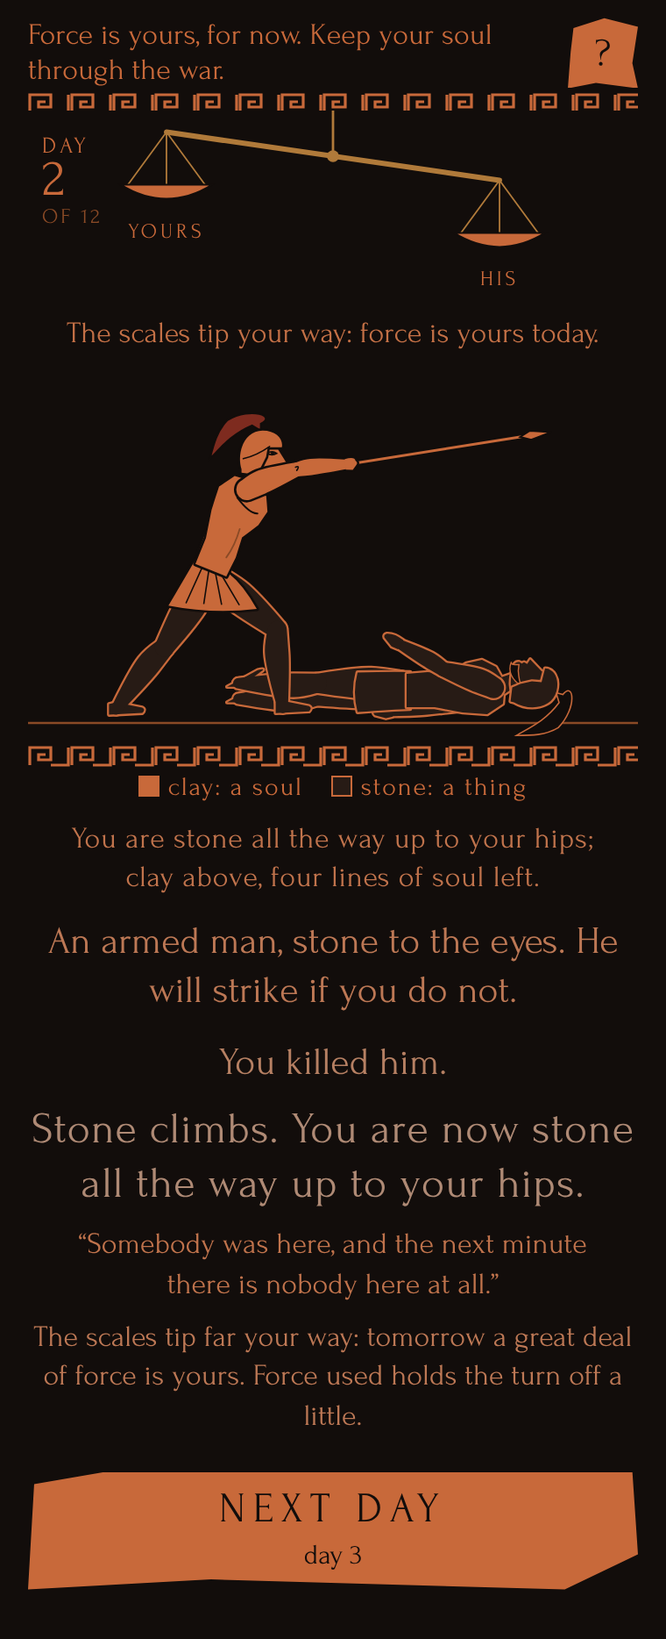
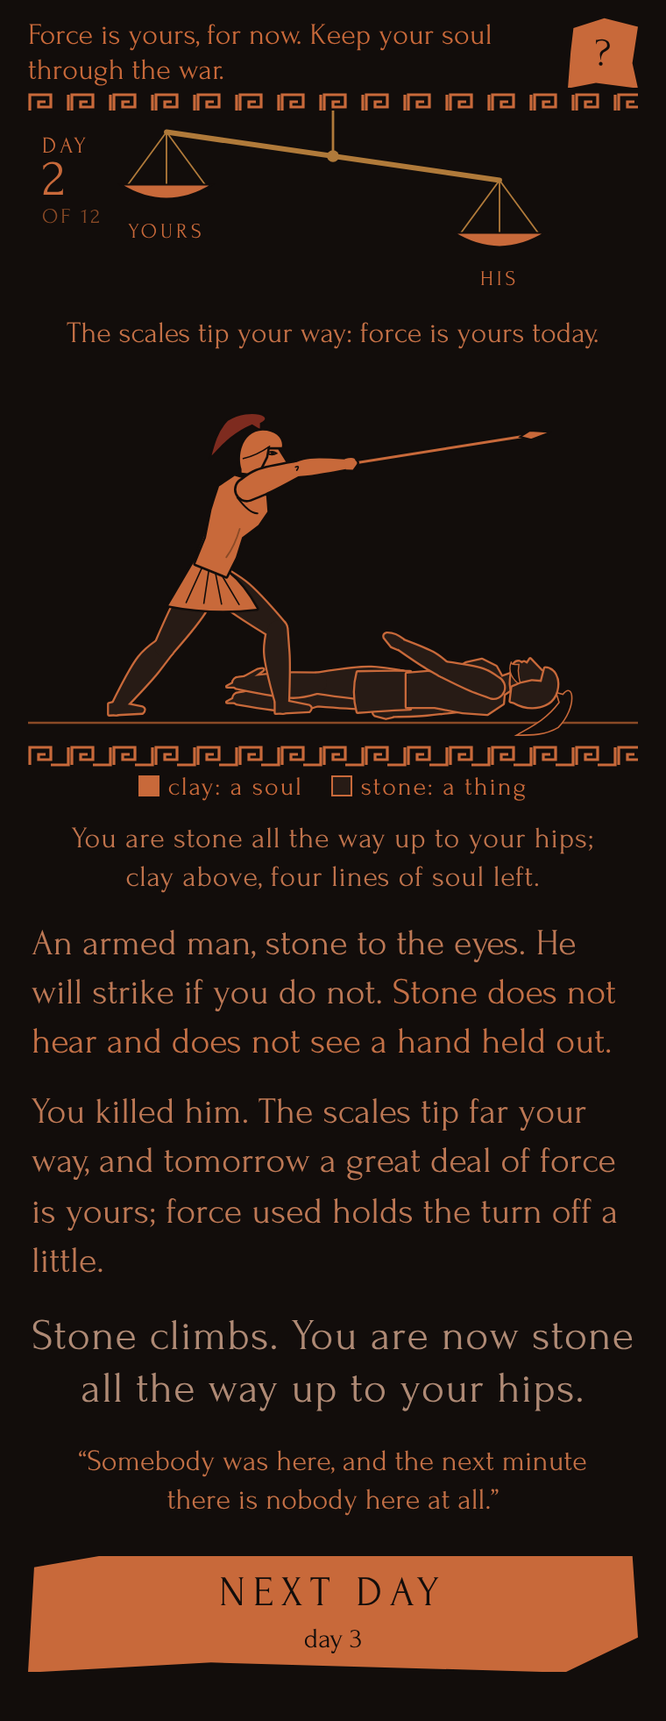
Weil's Vase, revision 5: the grey only for what force did to you; the result as prose, stone line, epigraph
Claude-Session: https://claude.ai/code/session_018niUhvwiMGBqmAW4HxwubP

diff --git a/weil/weils-vase.html b/weil/weils-vase.html
@@ -16,7 +16,7 @@
 }
 *{box-sizing:border-box;-webkit-tap-highlight-color:transparent}
 html,body{margin:0;padding:0;background:var(--glaze)}
-body{color:var(--ink6);font-family:var(--face);font-size:20px;line-height:1.32;min-height:100vh;overflow-x:hidden}
+body{color:var(--ink3);font-family:var(--face);font-size:20px;line-height:1.32;min-height:100vh;overflow-x:hidden}
 .screen{display:none;max-width:440px;margin:0 auto;padding:0 16px 28px;min-height:100vh;position:relative}
 .screen.on{display:block}
 .hidden{display:none!important}
@@ -27,14 +27,14 @@ svg{display:block}
 /* the start */
 #start h1{font-weight:400;font-size:42px;letter-spacing:.2em;text-align:center;margin:18px 0 0;color:var(--clay);line-height:1.05}
 #start .sub{text-align:center;font-size:15px;letter-spacing:.14em;color:var(--dilute);text-transform:uppercase;margin:6px 0 4px}
-#start .lede{text-align:center;font-size:24px;margin:8px 4px 6px;color:var(--ink8)}
-#start .acts{text-align:center;font-size:18px;color:var(--ink5);margin:8px 6px}
+#start .lede{text-align:center;font-size:24px;margin:8px 4px 6px;color:var(--ink45)}
+#start .acts{text-align:left;font-size:18px;line-height:1.36;color:var(--ink3);margin:8px 6px}
 .aimline{font-size:22px;text-align:center;color:var(--clay);margin:14px 0 8px;line-height:1.25}
 .small{font-size:15px;color:var(--dilute)}
 .links{display:flex;justify-content:center;gap:22px;margin:12px 0 4px;font-size:16px}
 .links button{background:none;border:0;color:var(--clay);font-family:var(--face);font-size:16px;letter-spacing:.12em;text-transform:uppercase;padding:8px 4px;cursor:pointer}
 .sig{text-align:center;margin:20px 0 6px;font-style:italic;font-size:14px;opacity:.6}
-.sig a{color:var(--ink6);text-decoration:none;text-transform:lowercase}
+.sig a{color:var(--ink3);text-decoration:none;text-transform:lowercase}
 .lifeno{text-align:center;font-size:13px;color:var(--dilute);letter-spacing:.1em;margin-top:6px}
 /* the sherds */
 .shw{position:relative;transition:transform .15s}
@@ -66,26 +66,27 @@ svg{display:block}
 .legend i{font-style:normal;display:inline-block;width:12px;height:12px;vertical-align:-1px;margin-right:5px;border:1px solid var(--clay)}
 .legend .c i{background:var(--clay)} .legend .k i{background:var(--stone)}
 .you{text-align:center;font-size:17px;color:var(--ink3);margin:8px 10px 0;letter-spacing:.02em}
-.scene{font-size:22px;line-height:1.3;text-align:center;margin:10px 2px 4px;color:var(--ink45)}
-.teach{font-size:17px;line-height:1.3;text-align:center;color:var(--ink2);margin:6px 6px 4px}
-.creep{font-size:18px;text-align:center;color:var(--ink5);margin:6px 0 0}
+.scene{font-size:21px;line-height:1.34;text-align:left;margin:12px 2px 4px;color:var(--ink45)}
+.scene .t{color:var(--ink2)}
+.teach{display:none}
+.creep{font-size:18px;text-align:center;color:var(--ink45);margin:6px 0 0}
 .creep b{font-weight:400;color:var(--clay);letter-spacing:.1em;text-transform:uppercase}
 #result{margin:12px 0 0;text-align:center}
-#result .said{font-size:22px;line-height:1.3;color:var(--ink7)}
-#result .cost{font-size:25px;color:var(--ink10);margin-top:8px;letter-spacing:.02em;line-height:1.25}
-#result .why{font-size:18px;color:var(--ink6);margin:8px 8px 0}
-#result .quote{font-size:17px;color:var(--ink3);margin:8px 10px 0}
+#result .said{font-size:21px;line-height:1.34;color:var(--ink45);margin:0 2px;text-align:left}
+#result .cost{font-size:25px;color:var(--ink10);margin:14px 0 0;letter-spacing:.02em;line-height:1.22}
+#result .why{font-size:18px;color:var(--ink10);margin:4px 8px 0;line-height:1.3}
+#result .quote{font-size:17px;color:var(--ink2);margin:14px 14px 0;line-height:1.3}
 #result .scl{font-size:17px;color:var(--ink45);margin:8px 0 0}
 #result .sherd{margin-top:16px}
 .meander{height:12px;margin:0}
 /* the end */
-#end h2{font-weight:400;font-size:27px;line-height:1.25;text-align:center;color:var(--ink5);margin:22px 4px 10px}
+#end h2{font-weight:400;font-size:27px;line-height:1.25;text-align:center;color:var(--ink10);margin:22px 4px 10px}
 #panels{display:grid;grid-template-columns:repeat(3,1fr);gap:6px;margin:10px 0}
 .pan{background:var(--glaze);border-top:1px solid var(--dilute);border-bottom:1px solid var(--dilute)}
 .pan .pl{font-size:13px;text-align:center;color:var(--clay);letter-spacing:.08em;padding:2px 0 3px;line-height:1.1}
-.did{font-size:19px;text-align:center;margin:6px 4px;color:var(--ink7)}
-.weil{font-size:20px;text-align:center;margin:16px 4px 6px;color:var(--ink8)}
-.weil b{display:block;font-weight:400;font-size:14px;letter-spacing:.18em;text-transform:uppercase;color:var(--clay);margin-bottom:4px}
+.did{font-size:19px;line-height:1.36;text-align:left;margin:6px 4px;color:var(--ink45)}
+.weil{font-size:20px;line-height:1.36;text-align:left;margin:16px 4px 6px;color:var(--ink45)}
+.weil b{display:block;font-weight:400;font-size:14px;letter-spacing:.18em;text-transform:uppercase;color:var(--clay);margin-bottom:4px;text-align:center}
 .last{font-size:17px;text-align:center;color:var(--ink3);margin:8px 10px}
 /* help and about */
 .page h2{font-weight:400;font-size:28px;letter-spacing:.14em;text-transform:uppercase;color:var(--clay);text-align:center;margin:22px 0 10px}
@@ -558,17 +559,17 @@ svg{display:block}
   function scalesLine(res) {
     if (res.end || res.mode === 'night') return null;
     if (res.mode === 'down' && res.him === 'heard') return 'The scales turn your way again, just past level.';
-    if (res.him === 'struck you') return 'Struck, you are thrown down: the scales have turned, and tomorrow force is his.';
-    if (res.him === 'fell back') return res.hTo >= 0 ? 'The scales have turned. Tomorrow force is yours again.' : 'But the scales are still against you: tomorrow another man stands over you.';
+    if (res.him === 'struck you') return 'You are thrown down: the scales have turned, and tomorrow force is his.';
+    if (res.him === 'fell back') return res.hTo >= 0 ? 'The scales have turned, and tomorrow force is yours again.' : 'But the scales are still against you, and tomorrow another man stands over you.';
     const a = res.hFrom, b = res.hTo;
     // fate turns the scales on its own clock; what you did today only holds the turn off a little, or brings it nearer
-    const push = res.mode !== 'up' ? '' : res.push > 0 ? ' Force used holds the turn off a little.' : res.push < 0 ? ' Mercy brings the turn nearer.' : '';
-    if (a >= 0 && b < 0) return 'The scales have turned. Tomorrow force is his.' + push;
-    if (a < 0 && b >= 0) return 'The scales have turned. Tomorrow force is yours again.';
+    const push = res.mode !== 'up' ? '.' : res.push > 0 ? '; force used holds the turn off a little.' : res.push < 0 ? '; mercy brings the turn nearer.' : '.';
+    if (a >= 0 && b < 0) return 'The scales have turned, and tomorrow force is his' + push;
+    if (a < 0 && b >= 0) return 'The scales have turned, and tomorrow force is yours again.';
     if (b < 0) return 'The scales are still against you.';
-    if (b > a + 0.25) return (b > CONFIG.H_CREEP ? 'The scales tip far your way: tomorrow a great deal of force is yours.' : 'The scales tip further your way.') + push;
-    if (b < a - 0.25) return 'The scales tip back toward level.' + push;
-    return 'The scales hang where they were.' + push;
+    if (b > a + 0.25) return (b > CONFIG.H_CREEP ? 'The scales tip far your way, and tomorrow a great deal of force is yours' : 'The scales tip further your way') + push;
+    if (b < a - 0.25) return 'The scales tip back toward level' + push;
+    return 'The scales hang where they were' + push;
   }
 
   // ---------------------------------------------------------------------------------------------------- the verdict
@@ -1035,14 +1036,14 @@ svg{display:block}
       him: { pose: arrivePose(man), lines: man.lines, x: himX + 60, flip: man.kind !== 'runner', look: look(man), hidden: false } };
     renderFrieze();
     tween({ him: { x: himX } }, 650);
-    $('#scene').textContent = M.sceneLine(t);
     $('#youLine').textContent = M.youLine(t.lines);
     // the teaching line: the rule of the world, said once, where it first matters
     let teach = '';
     if (t.day === 1) teach = 'Six fine lines, from your knees to your eye, are your soul. Lose one, and stone climbs from your feet.';
     else if (t.mode === 'down' && ui.firstDown) { teach = 'When the scales tip against you, you have no force. A man who is still clay can hear a plea; a man of stone cannot.'; ui.firstDown = false; }
     else if (t.mode === 'up' && t.man.armed && t.man.lines <= C.ARMED_DEAF && ui.firstStone) { teach = 'Stone does not hear and does not see a hand held out.'; ui.firstStone = false; }
-    setTeach(teach);
+    const sc = $('#scene'); sc.textContent = M.sceneLine(t) + (teach ? ' ' : '');
+    if (teach) { const s = document.createElement('span'); s.className = 't'; s.textContent = teach; sc.appendChild(s); }
     // the sherds
     const box = $('#sherds'); box.innerHTML = ''; box.classList.toggle('three', t.mode === 'down');
     t.gestures.forEach((gst, i) => {
@@ -1146,11 +1147,10 @@ svg{display:block}
   function showResult(res, t) {
     const w = res.word; const box = $('#result'); let h = '';
     $('#youLine').textContent = M.youLine(res.youTo);   // the standing line follows the figure
-    h += `<div class="said">${w.said.join(' ')}</div>`;
-    if (w.cost) h += `<div class="cost">${w.cost}</div>`;
-    if (w.why) h += `<div class="why">${w.why}</div>`;
+    const sl = M.scalesLine(res);
+    h += `<div class="said">${w.said.concat(sl ? [sl] : []).join(' ')}</div>`;
+    if (w.cost || w.why) h += `<div class="cost">${w.cost || ''}</div>` + (w.why ? `<div class="why">${w.why}</div>` : '');
     if (w.quote) h += `<div class="quote">${w.quote}</div>`;
-    const sl = M.scalesLine(res); if (sl) h += `<div class="scl">${sl}</div>`;
     const last = ui.g.over;
     h += `<div class="shw"><button class="sherd shb big" id="next"><span class="w">${last ? 'The vase' : t.mode === 'down' && res.him === 'fell back' ? 'Next day' : 'Next day'}</span><span class="s">${last ? 'turned round' : 'day ' + (t.day + 1) + (t.day + 1 === 12 ? ': the night' : '')}</span></button></div>`;
     box.innerHTML = h; $('#choose').classList.add('hidden'); box.classList.remove('hidden');
@@ -1183,7 +1183,7 @@ svg{display:block}
     const V = M.verdict(ui.g);
     $('#headline').textContent = V.headline;
     $('#panels').innerHTML = ui.g.log.map(e => `<div class="pan"><svg viewBox="0 30 348 220">${panelFor(e)}</svg><div class="pl">${e.kind === 'night' ? 'night' : 'day ' + e.day} · ${PANEL_WORD[e.him] || ''}${e.impulse ? ' (no interval)' : ''}</div></div>`).join('');
-    $('#did').innerHTML = V.did.map(l => `<p class="did">${l}</p>`).join('');
+    $('#did').innerHTML = `<p class="did">${V.did.join(' ')}</p>`;
     $('#weil').textContent = V.weil; $('#last').textContent = V.last;
     show('end');
   }

diff --git a/weil/template.html b/weil/template.html
@@ -16,7 +16,7 @@
 }
 *{box-sizing:border-box;-webkit-tap-highlight-color:transparent}
 html,body{margin:0;padding:0;background:var(--glaze)}
-body{color:var(--ink6);font-family:var(--face);font-size:20px;line-height:1.32;min-height:100vh;overflow-x:hidden}
+body{color:var(--ink3);font-family:var(--face);font-size:20px;line-height:1.32;min-height:100vh;overflow-x:hidden}
 .screen{display:none;max-width:440px;margin:0 auto;padding:0 16px 28px;min-height:100vh;position:relative}
 .screen.on{display:block}
 .hidden{display:none!important}
@@ -27,14 +27,14 @@ svg{display:block}
 /* the start */
 #start h1{font-weight:400;font-size:42px;letter-spacing:.2em;text-align:center;margin:18px 0 0;color:var(--clay);line-height:1.05}
 #start .sub{text-align:center;font-size:15px;letter-spacing:.14em;color:var(--dilute);text-transform:uppercase;margin:6px 0 4px}
-#start .lede{text-align:center;font-size:24px;margin:8px 4px 6px;color:var(--ink8)}
-#start .acts{text-align:center;font-size:18px;color:var(--ink5);margin:8px 6px}
+#start .lede{text-align:center;font-size:24px;margin:8px 4px 6px;color:var(--ink45)}
+#start .acts{text-align:left;font-size:18px;line-height:1.36;color:var(--ink3);margin:8px 6px}
 .aimline{font-size:22px;text-align:center;color:var(--clay);margin:14px 0 8px;line-height:1.25}
 .small{font-size:15px;color:var(--dilute)}
 .links{display:flex;justify-content:center;gap:22px;margin:12px 0 4px;font-size:16px}
 .links button{background:none;border:0;color:var(--clay);font-family:var(--face);font-size:16px;letter-spacing:.12em;text-transform:uppercase;padding:8px 4px;cursor:pointer}
 .sig{text-align:center;margin:20px 0 6px;font-style:italic;font-size:14px;opacity:.6}
-.sig a{color:var(--ink6);text-decoration:none;text-transform:lowercase}
+.sig a{color:var(--ink3);text-decoration:none;text-transform:lowercase}
 .lifeno{text-align:center;font-size:13px;color:var(--dilute);letter-spacing:.1em;margin-top:6px}
 /* the sherds */
 .shw{position:relative;transition:transform .15s}
@@ -66,26 +66,27 @@ svg{display:block}
 .legend i{font-style:normal;display:inline-block;width:12px;height:12px;vertical-align:-1px;margin-right:5px;border:1px solid var(--clay)}
 .legend .c i{background:var(--clay)} .legend .k i{background:var(--stone)}
 .you{text-align:center;font-size:17px;color:var(--ink3);margin:8px 10px 0;letter-spacing:.02em}
-.scene{font-size:22px;line-height:1.3;text-align:center;margin:10px 2px 4px;color:var(--ink45)}
-.teach{font-size:17px;line-height:1.3;text-align:center;color:var(--ink2);margin:6px 6px 4px}
-.creep{font-size:18px;text-align:center;color:var(--ink5);margin:6px 0 0}
+.scene{font-size:21px;line-height:1.34;text-align:left;margin:12px 2px 4px;color:var(--ink45)}
+.scene .t{color:var(--ink2)}
+.teach{display:none}
+.creep{font-size:18px;text-align:center;color:var(--ink45);margin:6px 0 0}
 .creep b{font-weight:400;color:var(--clay);letter-spacing:.1em;text-transform:uppercase}
 #result{margin:12px 0 0;text-align:center}
-#result .said{font-size:22px;line-height:1.3;color:var(--ink7)}
-#result .cost{font-size:25px;color:var(--ink10);margin-top:8px;letter-spacing:.02em;line-height:1.25}
-#result .why{font-size:18px;color:var(--ink6);margin:8px 8px 0}
-#result .quote{font-size:17px;color:var(--ink3);margin:8px 10px 0}
+#result .said{font-size:21px;line-height:1.34;color:var(--ink45);margin:0 2px;text-align:left}
+#result .cost{font-size:25px;color:var(--ink10);margin:14px 0 0;letter-spacing:.02em;line-height:1.22}
+#result .why{font-size:18px;color:var(--ink10);margin:4px 8px 0;line-height:1.3}
+#result .quote{font-size:17px;color:var(--ink2);margin:14px 14px 0;line-height:1.3}
 #result .scl{font-size:17px;color:var(--ink45);margin:8px 0 0}
 #result .sherd{margin-top:16px}
 .meander{height:12px;margin:0}
 /* the end */
-#end h2{font-weight:400;font-size:27px;line-height:1.25;text-align:center;color:var(--ink5);margin:22px 4px 10px}
+#end h2{font-weight:400;font-size:27px;line-height:1.25;text-align:center;color:var(--ink10);margin:22px 4px 10px}
 #panels{display:grid;grid-template-columns:repeat(3,1fr);gap:6px;margin:10px 0}
 .pan{background:var(--glaze);border-top:1px solid var(--dilute);border-bottom:1px solid var(--dilute)}
 .pan .pl{font-size:13px;text-align:center;color:var(--clay);letter-spacing:.08em;padding:2px 0 3px;line-height:1.1}
-.did{font-size:19px;text-align:center;margin:6px 4px;color:var(--ink7)}
-.weil{font-size:20px;text-align:center;margin:16px 4px 6px;color:var(--ink8)}
-.weil b{display:block;font-weight:400;font-size:14px;letter-spacing:.18em;text-transform:uppercase;color:var(--clay);margin-bottom:4px}
+.did{font-size:19px;line-height:1.36;text-align:left;margin:6px 4px;color:var(--ink45)}
+.weil{font-size:20px;line-height:1.36;text-align:left;margin:16px 4px 6px;color:var(--ink45)}
+.weil b{display:block;font-weight:400;font-size:14px;letter-spacing:.18em;text-transform:uppercase;color:var(--clay);margin-bottom:4px;text-align:center}
 .last{font-size:17px;text-align:center;color:var(--ink3);margin:8px 10px}
 /* help and about */
 .page h2{font-weight:400;font-size:28px;letter-spacing:.14em;text-transform:uppercase;color:var(--clay);text-align:center;margin:22px 0 10px}
@@ -351,14 +352,14 @@ svg{display:block}
       him: { pose: arrivePose(man), lines: man.lines, x: himX + 60, flip: man.kind !== 'runner', look: look(man), hidden: false } };
     renderFrieze();
     tween({ him: { x: himX } }, 650);
-    $('#scene').textContent = M.sceneLine(t);
     $('#youLine').textContent = M.youLine(t.lines);
     // the teaching line: the rule of the world, said once, where it first matters
     let teach = '';
     if (t.day === 1) teach = 'Six fine lines, from your knees to your eye, are your soul. Lose one, and stone climbs from your feet.';
     else if (t.mode === 'down' && ui.firstDown) { teach = 'When the scales tip against you, you have no force. A man who is still clay can hear a plea; a man of stone cannot.'; ui.firstDown = false; }
     else if (t.mode === 'up' && t.man.armed && t.man.lines <= C.ARMED_DEAF && ui.firstStone) { teach = 'Stone does not hear and does not see a hand held out.'; ui.firstStone = false; }
-    setTeach(teach);
+    const sc = $('#scene'); sc.textContent = M.sceneLine(t) + (teach ? ' ' : '');
+    if (teach) { const s = document.createElement('span'); s.className = 't'; s.textContent = teach; sc.appendChild(s); }
     // the sherds
     const box = $('#sherds'); box.innerHTML = ''; box.classList.toggle('three', t.mode === 'down');
     t.gestures.forEach((gst, i) => {
@@ -462,11 +463,10 @@ svg{display:block}
   function showResult(res, t) {
     const w = res.word; const box = $('#result'); let h = '';
     $('#youLine').textContent = M.youLine(res.youTo);   // the standing line follows the figure
-    h += `<div class="said">${w.said.join(' ')}</div>`;
-    if (w.cost) h += `<div class="cost">${w.cost}</div>`;
-    if (w.why) h += `<div class="why">${w.why}</div>`;
+    const sl = M.scalesLine(res);
+    h += `<div class="said">${w.said.concat(sl ? [sl] : []).join(' ')}</div>`;
+    if (w.cost || w.why) h += `<div class="cost">${w.cost || ''}</div>` + (w.why ? `<div class="why">${w.why}</div>` : '');
     if (w.quote) h += `<div class="quote">${w.quote}</div>`;
-    const sl = M.scalesLine(res); if (sl) h += `<div class="scl">${sl}</div>`;
     const last = ui.g.over;
     h += `<div class="shw"><button class="sherd shb big" id="next"><span class="w">${last ? 'The vase' : t.mode === 'down' && res.him === 'fell back' ? 'Next day' : 'Next day'}</span><span class="s">${last ? 'turned round' : 'day ' + (t.day + 1) + (t.day + 1 === 12 ? ': the night' : '')}</span></button></div>`;
     box.innerHTML = h; $('#choose').classList.add('hidden'); box.classList.remove('hidden');
@@ -499,7 +499,7 @@ svg{display:block}
     const V = M.verdict(ui.g);
     $('#headline').textContent = V.headline;
     $('#panels').innerHTML = ui.g.log.map(e => `<div class="pan"><svg viewBox="0 30 348 220">${panelFor(e)}</svg><div class="pl">${e.kind === 'night' ? 'night' : 'day ' + e.day} · ${PANEL_WORD[e.him] || ''}${e.impulse ? ' (no interval)' : ''}</div></div>`).join('');
-    $('#did').innerHTML = V.did.map(l => `<p class="did">${l}</p>`).join('');
+    $('#did').innerHTML = `<p class="did">${V.did.join(' ')}</p>`;
     $('#weil').textContent = V.weil; $('#last').textContent = V.last;
     show('end');
   }

diff --git a/weil/mechanism.js b/weil/mechanism.js
@@ -362,17 +362,17 @@
   function scalesLine(res) {
     if (res.end || res.mode === 'night') return null;
     if (res.mode === 'down' && res.him === 'heard') return 'The scales turn your way again, just past level.';
-    if (res.him === 'struck you') return 'Struck, you are thrown down: the scales have turned, and tomorrow force is his.';
-    if (res.him === 'fell back') return res.hTo >= 0 ? 'The scales have turned. Tomorrow force is yours again.' : 'But the scales are still against you: tomorrow another man stands over you.';
+    if (res.him === 'struck you') return 'You are thrown down: the scales have turned, and tomorrow force is his.';
+    if (res.him === 'fell back') return res.hTo >= 0 ? 'The scales have turned, and tomorrow force is yours again.' : 'But the scales are still against you, and tomorrow another man stands over you.';
     const a = res.hFrom, b = res.hTo;
     // fate turns the scales on its own clock; what you did today only holds the turn off a little, or brings it nearer
-    const push = res.mode !== 'up' ? '' : res.push > 0 ? ' Force used holds the turn off a little.' : res.push < 0 ? ' Mercy brings the turn nearer.' : '';
-    if (a >= 0 && b < 0) return 'The scales have turned. Tomorrow force is his.' + push;
-    if (a < 0 && b >= 0) return 'The scales have turned. Tomorrow force is yours again.';
+    const push = res.mode !== 'up' ? '.' : res.push > 0 ? '; force used holds the turn off a little.' : res.push < 0 ? '; mercy brings the turn nearer.' : '.';
+    if (a >= 0 && b < 0) return 'The scales have turned, and tomorrow force is his' + push;
+    if (a < 0 && b >= 0) return 'The scales have turned, and tomorrow force is yours again.';
     if (b < 0) return 'The scales are still against you.';
-    if (b > a + 0.25) return (b > CONFIG.H_CREEP ? 'The scales tip far your way: tomorrow a great deal of force is yours.' : 'The scales tip further your way.') + push;
-    if (b < a - 0.25) return 'The scales tip back toward level.' + push;
-    return 'The scales hang where they were.' + push;
+    if (b > a + 0.25) return (b > CONFIG.H_CREEP ? 'The scales tip far your way, and tomorrow a great deal of force is yours' : 'The scales tip further your way') + push;
+    if (b < a - 0.25) return 'The scales tip back toward level' + push;
+    return 'The scales hang where they were' + push;
   }
 
   // ---------------------------------------------------------------------------------------------------- the verdict

diff --git a/weil/memo.md b/weil/memo.md
@@ -227,3 +227,5 @@ The spread is wide, so the decisions matter. No rule wins everywhere: measured k
 > **Revision 3 (3 Nov 2026): the author's slow read, and the continuity pass.** From his notes: (1) the subtitle is now *The Poem of Force*, her title, with the full one kept in About; (2) the confirm sherd is gone: one touch acts, which is also what the creeping arm already did, so the two no longer contradict each other (the three words under each sherd carry the meaning; the preview pose is played as part of the act); (3) "pan" is gone from every screen: the scales *tip your way* or *against you*, the labels YOURS and HIS do the rest; (4) the caption under the scales no longer rewrites itself after the swing, which had read as a consequence of the gesture; the result speaks once about the scales and keeps fate apart from the player's push ("The scales hang where they were. Mercy brings the turn nearer." / "Force used holds the turn off a little."), and the struck-and-thrown-down case is one sentence; (5) the body text drops from added white to a muted bone, and the one bright white is reserved for the stone line, which is now the loudest sentence on the result screen, matching the flash on the figure. Then every line the game can say was printed in every state it can be said in (`corpus`, kept in the session scratch, not here) and read in order. Fixed: passing a man who is not a suppliant no longer knocks him down ("He fell, and lies where he fell" had been applied to the speaker, the priest, the woman at the loom and the old man of the night; each now has its own line and pose, and keeps his lines); the night has lines for STRIKE, TAKE and PASS, and the verdict names them; the dealt armed men carry a noun each (a charioteer, a Lycian, a man with a wounded hand, a spearman of the enemy) so the third armed man is not the first risen from the dead and the twelve panels read as twelve men; the night visitor is "the father of the charioteer. You killed his son on day five" (and the priest's brother); a second day on your knees says "still against you ... another armed man"; the raised suppliant "goes back to his own people" rather than "stands, a man again"; the wounded man is carried; grace no longer says the same thing twice; the panel labels are all from the player's side (knelt, heard / knelt, unheard / stood / stood, killed / he struck you). One quotation I could not check against the pamphlet from here was dropped rather than risked. Mechanism numbers untouched; calibration 30/30; scripted sessions and screenshots regenerated; a separate browser run exercised every man's pass-by and grace path without error.
 
 > **Revision 4 (3 Nov 2026): the inks.** The author found every text colour troubling in turn: the added white as a glare, the muted bone as a third colour that was neither clay nor anything else, a pure grey for the stone line still too close to white. His proposal, built and compared in three rounds of side-by-side renderings: one axis of colour from clay to the stone line's own colour, and every kind of text a point on it, with size climbing along the same axis. The anchor is a mid grey warmed with a third of clay (`#AF8A75`): the stone line, alone, at 25 px. From there down toward clay: what you did (0.7, 22 px), Weil's rule (0.6, 18), who is before you and what the scales did (0.45, 22 and 17), your state and the quotation (0.3, 17), the scales caption and the teaching line (0.2, 17), the aim in clay (17). The start and end screens sit on the same axis (the lede at 0.8, the verdict headline at 0.5, Weil's paragraph at 0.8). No white anywhere; the clay and glaze of the figures are untouched. Every size went up a step, the sherd labels and the help pages too. Section 13's palette entry for added white is superseded by this note: added white now appears only in the flash on a figure's band and the glow of the night's grace. CSS only; calibration 30/30; sessions and screenshots regenerated.
+
+> **Revision 5 (3 Nov 2026): prose, not a column.** Two notes from the author after revision 4: the ramp had not been applied consistently (the end screen, How to play and About sat high on the axis and read as a second, grey palette next to the clay day screen), and the result was a staccato of five centred one-liners. His steer: this game is for people willing to read a bit, so longer paragraphs. Final choices: the grey belongs only to what force did to you, which is the stone line and the fate headline at the end; every other line on every screen stays at the clay end of the axis. The result is three blocks: what happened as one paragraph (the deed and the scales joined, the scales clause with a semicolon: "The scales hang where they were; force used holds the turn off a little."), then the stone line with Weil's rule under it in the same ink the first time it applies, then the poem's line as an epigraph. The day's teaching sentence is now the last sentence of the engraved line rather than a line of its own; the end screen's tally is one paragraph. Prose is set left, as text to read; single lines (the state, the stone line, the epigraph, the headline) stay centred as inscriptions. Calibration 30/30; sessions and screenshots regenerated.
